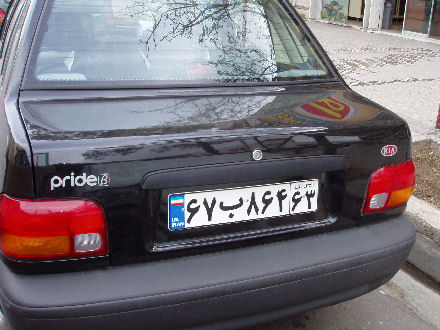
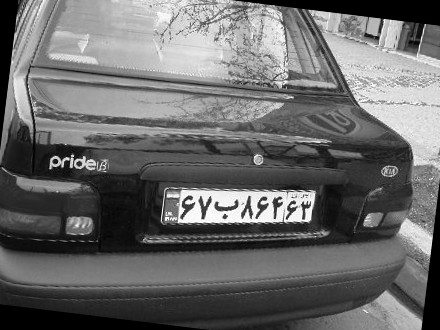
add train image

diff --git a/read_car_plates_dlib.py b/read_car_plates_dlib.py
@@ -18,7 +18,8 @@ def splitcharacter(imagein):
     print(" ")
     print(img_arr2)
     img1=Image.fromarray(imagein,'RGB')
-    img1=img1.filter(ImageFilter.CONTOUR)
+    #img1=img1.filter(ImageFilter.CONTOUR)
+    img1=img1.convert('1')
     #img1.show()
     img1.save('tmp.jpg')
     img2=dlib.load_rgb_image('tmp.jpg')
@@ -30,7 +31,7 @@ def splitcharacter(imagein):
     Data= {'x':[],'y':[]}
     for y in range(len(img_arr)):
         for x in range(len(img_arr[0])):
-            if img_arr[y][x]<=220:
+            if img_arr[y][x]<=8:
                 Data['x'].append(x)
                 Data['y'].append(y)
 
